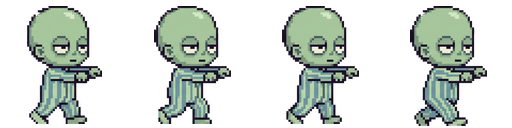
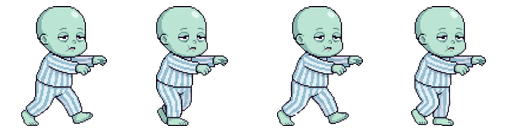
Zombies : z01 (Sleepy Toddler), z02 (Rotting Kid), z03 (Broken Teen) ; outil : ordre des colonnes optionnel
z02 : la frame 2 generee etait abimee (torse bave), remplacee par la
frame 4 (meme pose de passage) via le nouvel argument d'ordre 1,4,3,4.

diff --git a/public/zombies/README.md b/public/zombies/README.md
@@ -2,4 +2,4 @@
 
 Deposer ici z01.png .. z10.png (+ boss.png pour les niveaux BOSS) : une feuille par zombie, 4 frames de marche en LIGNE (4 x 128 px de large, 128 px de haut (toute taille carree marche, le CSS est en pourcentages), fond transparent), vu de profil, marchant vers la DROITE. Absent -> l ecran affiche un emoji.
 
-Generation depuis une image Gemini (4 frames sur faux damier, JPEG) : `node scripts/sprite-sheet.mjs entree.jpg public/zombies/zNN.png 128`.
+Generation depuis une image Gemini (4 frames, fond uni ou damier, JPEG) : `node scripts/sprite-sheet.mjs entree.jpg public/zombies/zNN.png 128 [ordre des colonnes, ex. 1,4,3,4 pour remplacer une frame abimee]`.
